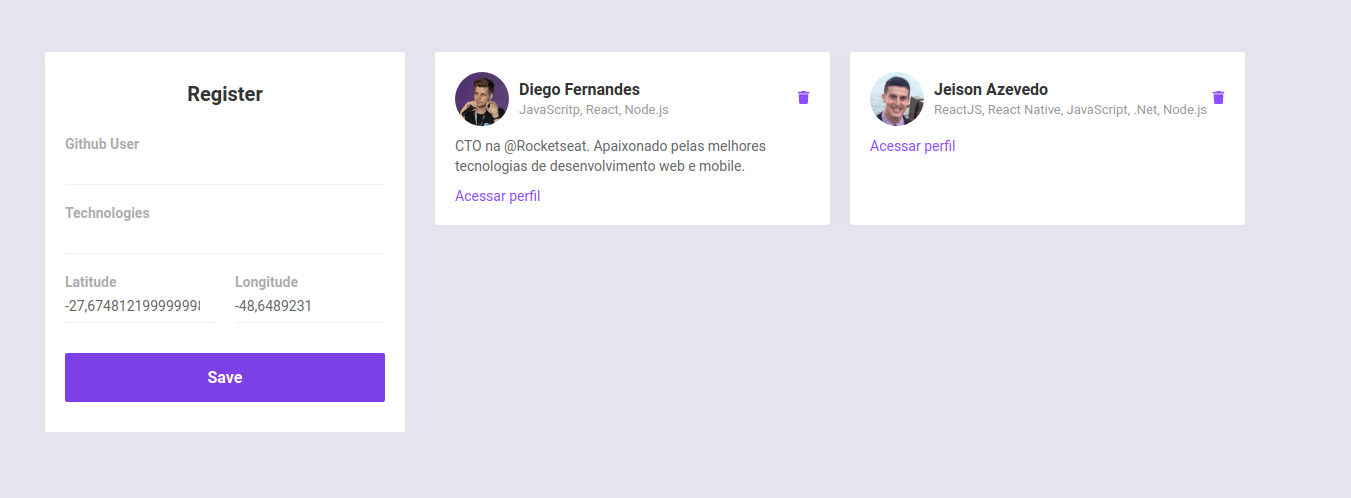
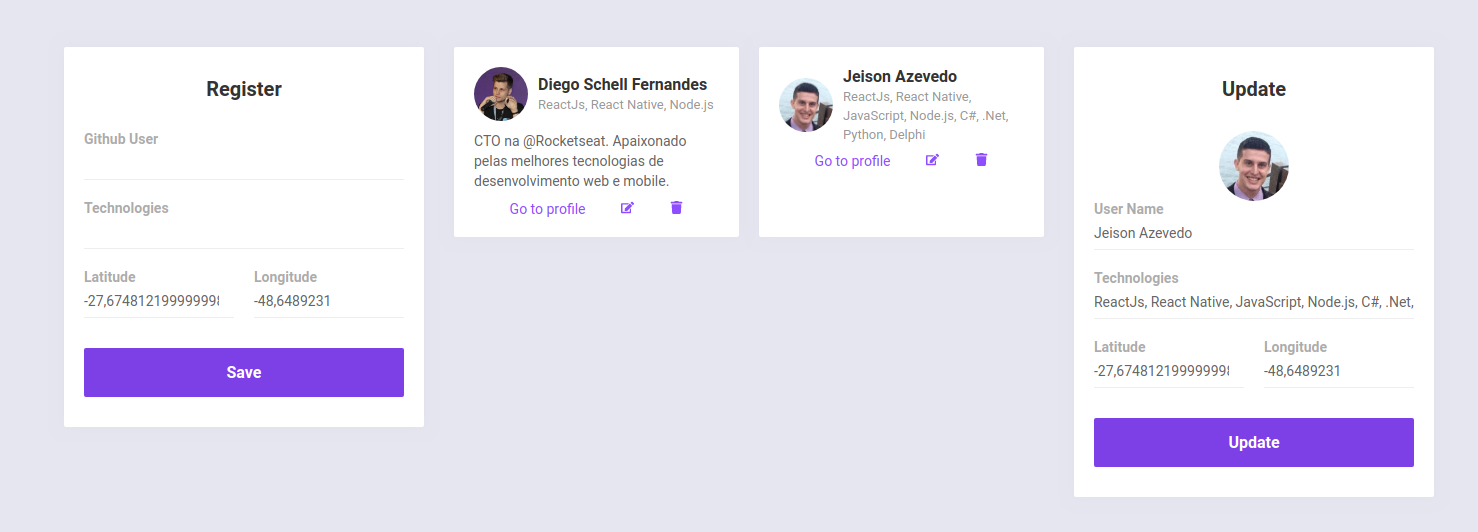
reposition delete and update, new image of web.

Changed region(s): [[0.0311, 0.0904, 0.9948, 0.9337], [0.1244, 0.1506, 0.2176, 0.2108], [0.8083, 0.1506, 0.8705, 0.1807]]

diff --git a/web/src/components/DevItem/index.js b/web/src/components/DevItem/index.js
@@ -10,19 +10,19 @@ export default function DevItem({ dev, onDelete, onUpdate }) {
         <img src={dev.avatar_url} alt={dev.name} />
         <div className="user-info">
           <strong>{dev.name}</strong>
-          <span>{dev.techs}</span>
-        </div>
-        <div className="user-delete">
-          <button type="button" onClick={() => onUpdate(dev)}>
-            <FaEdit />
-          </button>
-          <button type="button" onClick={() => onDelete(dev._id)}>
-            <FaTrash />
-          </button>
+          <span>{dev.techs.join(", ")}</span>
         </div>
       </header>
       <p>{dev.bio}</p>
-      <a href={`http://github.com/${dev.github_username}`}>Acessar perfil</a>
+      <div className="user-delete">
+        <a href={`http://github.com/${dev.github_username}`}>Go to profile</a>
+        <button type="button" title="Edit" onClick={() => onUpdate(dev)}>
+          <FaEdit />
+        </button>
+        <button type="button" title="Delete" onClick={() => onDelete(dev._id)}>
+          <FaTrash />
+        </button>
+      </div>
     </li>
   );
 }

diff --git a/web/src/components/DevItem/styles.css b/web/src/components/DevItem/styles.css
@@ -19,18 +19,19 @@ li.dev-item header img {
   border-radius: 50%;
 }
 
-li.dev-item header .user-delete {
+li.dev-item .user-delete {
   flex: 1;
   display: flex;
-  flex-direction: row-reverse;
+  flex-direction: row;
+  justify-content: space-evenly;
 }
 
-li.dev-item header button {
+li.dev-item button {
   background: none;
   border: none;
 }
 
-header button svg {
+button svg {
   color: #8e4dff;
 }
 
